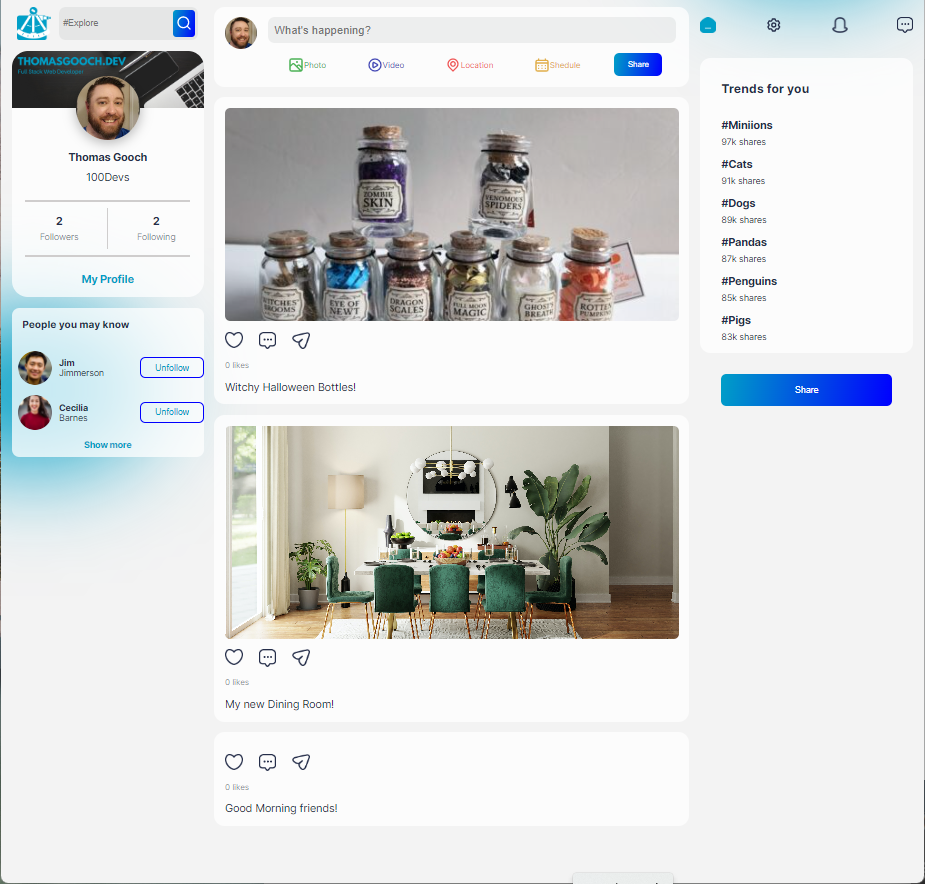
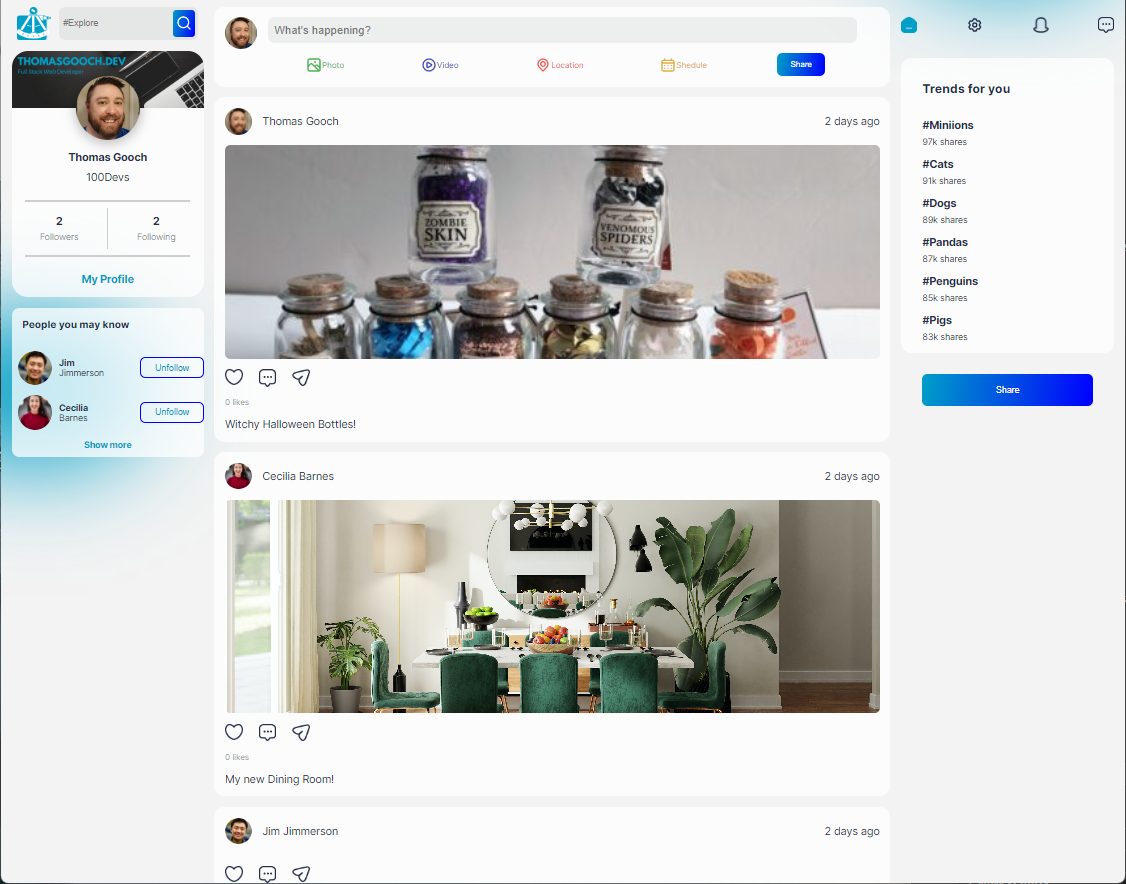
added post headers

diff --git a/client/src/Components/Post/Post.js b/client/src/Components/Post/Post.js
@@ -1,4 +1,4 @@
-import React, { useState } from "react";
+import React, { useEffect, useState } from "react";
 import "./Post.css";
 import Comment from "../../img/comment.png";
 import Share from "../../img/share.png";
@@ -6,20 +6,56 @@ import Heart from "../../img/like.png";
 import NotLike from "../../img/notlike.png";
 import { likePost } from "../../api/PostsRequests";
 import { useSelector } from "react-redux";
+import { format } from "timeago.js";
+import { getUser } from "../../api/UserRequests";
 
 const Post = ({ data }) => {
   const { user } = useSelector((state) => state.authReducer.authData);
   const [liked, setLiked] = useState(data.likes.includes(user._id));
   const [likes, setLikes] = useState(data.likes.length)
-
+  const [poster, setPoster] = useState(null);
+const serverPublic = process.env.REACT_APP_PUBLIC_FOLDER;
   
   const handleLike = () => {
     likePost(data._id, user._id);
     setLiked((prev) => !prev);
     liked? setLikes((prev)=>prev-1): setLikes((prev)=>prev+1)
   };
+
+  
+  const posterId = data.userId; 
+  
+
+  useEffect(() => {
+    const fetchPoster = async () => {
+      try {
+        const { data } = await getUser(posterId);
+         setPoster(data);
+      } catch (error) {
+        console.log(error);
+      }
+    };
+    fetchPoster();
+  }, [posterId]);
+
+ 
+ 
+
   return (
     <div className="Post">
+      <div className="Post_header">
+
+        <div className="Post_header_left">
+          <img src={serverPublic + poster?.profilePicture} alt="" />
+          <div className="Post_header_left_info">
+            <span>{poster?.firstname} </span>
+            <span>{poster?.lastname}</span>
+          </div>
+        </div>
+        <div className="Post_header_right">
+          <span>{format(data.createdAt)}</span>
+        </div>
+      </div>
       <img
         src={data.image ? process.env.REACT_APP_PUBLIC_FOLDER + data.image : ""}
         alt=""

diff --git a/client/src/Components/Post/Post.css b/client/src/Components/Post/Post.css
@@ -19,3 +19,22 @@
    align-items: flex-start;
    gap: 1.5rem;
 }
+
+.Post_header {
+   display: flex;
+   justify-content: space-between;
+   align-items: center;
+   gap: 1rem;
+}
+
+.Post_header_left {
+   display: flex;
+   align-items: center;
+   gap: 1rem;  
+}
+
+.Post_header_left img {
+   width: 2.5rem;
+   height: 2.5rem;
+   border-radius: 50%;
+}
